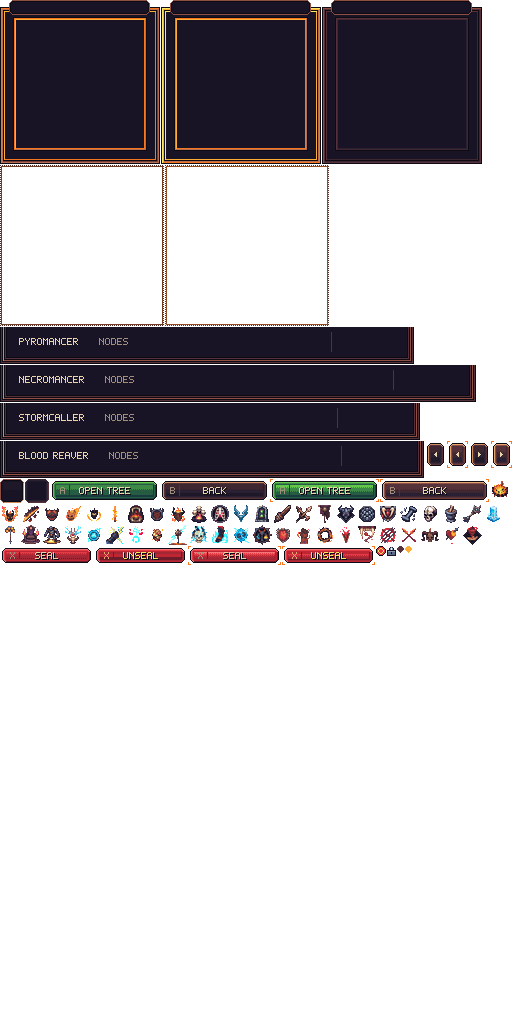
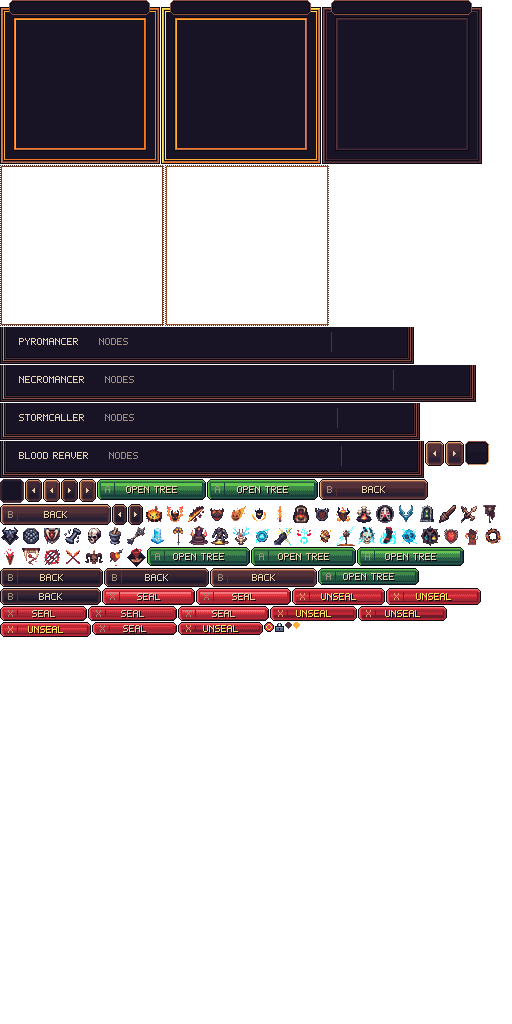
t1382: Altar menu: SEAL always drawn (empty pact sealable); button hover/press spring (crisp redraw at +/- size), arrows + side cards, key press feedback

Changed region(s): [[0.0, 0.4062, 1.0, 0.625]]

diff --git a/Assets/Hellord/Scripts/Runtime/HellordAltarMenu.cs b/Assets/Hellord/Scripts/Runtime/HellordAltarMenu.cs
@@ -20,7 +20,7 @@ namespace Hellord
         /// <summary>true when the menu-theme Altar overview is drawn (and handles keys); anything missing/failed falls back to the stone carousel.</summary>
         bool AmActive() { return !_amBroken && HellordUITheme.Active == HellordUITheme.Theme.MenuTheme && NP97 == 4 && PmReady() && AmReady(); }
         /// <summary>menu theme + sealed: the Pact picks are frozen until UNSEAL.</summary>
-        bool AmLocked() { return _pactSealed51 && HellordUITheme.Active == HellordUITheme.Theme.MenuTheme && _pactPath51 >= 0 && _pactSel51 != 0; }
+        bool AmLocked() { return _pactSealed51 && HellordUITheme.Active == HellordUITheme.Theme.MenuTheme && _pactPath51 >= 0; }
 
         void AmSpr(string n, int x, int y, float a = 1f) { int[] r; if (_amAtlas == null || !AltarMenuData.Atlas.TryGetValue(n, out r)) return; MtBlit(_amAtlas, r[0], r[1], r[2], r[3], x, y, a); }
         /// <summary>integer-scaled (nearest) blit of a whole texture at (x,y) in the 640x360 grid.</summary>
@@ -53,10 +53,48 @@ namespace Hellord
 
         // ---------------------------------------------------------------- seal
         void AmSealToggle()
-        {
+        {   // the seal belongs to YOUR Pact path; an empty Pact can be sealed too (picks stay frozen until UNSEAL)
+            int v = _altarView51;
             if (_pactSealed51) { _pactSealed51 = false; PactSave51(); Msg51("PACT UNSEALED"); HellordAudio.Play("ui_back"); return; }
-            if (_pactPath51 < 0 || _pactSel51 == 0) { Msg51("PICK NODES FIRST"); return; }
-            _pactSealed51 = true; PactSave51(); Msg51("PACT SEALED"); HellordAudio.Play("ui_confirm");
+            if (_pactPath51 != v)
+            {
+                if (_pactPath51 >= 0 && _pactSel51 != 0) { Msg51("SEAL APPLIES TO YOUR PATH: " + PactData.PathShort[_pactPath51]); return; }
+                if (PathLocked97(v)) { Msg51("PATH LOCKED: UNLOCK A NODE FIRST"); return; }
+                _pactPath51 = v; _pactSel51 = 0;
+            }
+            _pactSealed51 = true; PactSave51(); Msg51(_pactSel51 == 0 ? "PACT SEALED (EMPTY)" : "PACT SEALED"); HellordAudio.Play("ui_confirm");
+        }
+        void AmDo(string id) { if (id == "amopen") { _altarScr53 = 1; _focus97 = -1; } else if (id == "amback") mode = Mode.MainMenu; }
+
+        // ---------------------------------------------------------------- button juice: per-control spring (level -2 pressed .. 0 rest .. +2 hover, overshoot to +3); the control is REDRAWN at the matching baked size (frames stay crisp)
+        class AmAnim { public float x, v; public int frame = -1; public float pressUntil; }
+        readonly Dictionary<string, AmAnim> _amAnim = new Dictionary<string, AmAnim>();
+        string _amPend; float _amPendAt;
+        AmAnim AmA(string id) { AmAnim a; if (!_amAnim.TryGetValue(id, out a)) { a = new AmAnim(); _amAnim[id] = a; } return a; }
+        /// <summary>keyboard / pad press feedback: shows the pressed state for ~0.1 s.</summary>
+        void AmKick(string id) { AmA(id).pressUntil = Time.unscaledTime + 0.1f; }
+        int AmLevel(string id, bool over, bool pressed)
+        {
+            var a = AmA(id); if (a.pressUntil > Time.unscaledTime) pressed = true;
+            float target = pressed ? -2f : over ? 2f : 0f;
+            if (a.frame != Time.frameCount)
+            {
+                a.frame = Time.frameCount; float dt = Mathf.Min(Time.unscaledDeltaTime, 1f / 30f) * 0.5f;
+                for (int k = 0; k < 2; k++) { float acc = 900f * (target - a.x) - 24f * a.v; a.v += acc * dt; a.x += a.v * dt; }   // ~0.12 s to settle, ~25% overshoot
+                if (Mathf.Abs(target - a.x) < 0.02f && Mathf.Abs(a.v) < 0.05f) { a.x = target; a.v = 0; }
+            }
+            return Mathf.Clamp(Mathf.RoundToInt(a.x), -2, 3);
+        }
+        static string AmD(int d) { return (d < 0 ? "m" : "") + Mathf.Abs(d); }
+        /// <summary>one juicy button: returns true when clicked. (x,y,w,h) = the rest rect (also the hit rect); arrow = square growth.</summary>
+        bool AmBtn(string id, string spr, int x, int y, int w, int h, bool free, bool arrow = false, float alpha = 1f)
+        {
+            bool over = free && MtOver(id, x, y, w, h), pr = MtPressed(id, over); int lv = AmLevel(id, over, pr);
+            int dw, dh; if (arrow) dw = dh = 2 * (lv / 2); else { dw = 2 * lv; dh = 2 * (lv / 2); }
+            int ox = x - dw / 2, oy = y - dh / 2 + (lv < 0 ? 1 : 0);
+            AmSpr(spr + (lv >= 1 ? "_h_" : "_n_") + AmD(dw) + "_" + AmD(dh), ox, oy, alpha);
+            if (over) MtBrackets(ox, oy, w + dw, h + dh);
+            return MtClick(id, x, y, w, h, free);
         }
 
         // ---------------------------------------------------------------- screen
@@ -76,7 +114,7 @@ namespace Hellord
             float t = MtClock(); bool free = _confirm97 < 0; int NP = NP97, v = Mathf.Clamp(_altarView51, 0, NP - 1), l = (v + NP - 1) % NP, r = (v + 1) % NP;
             var nodes = PactData.Nodes[v]; bool yours = _pactPath51 == v, locked = PathLocked97(v);
             var tk = new List<int>(); if (yours) for (int i = 0; i < nodes.Length; i++) if (Taken97(v, i)) tk.Add(i);
-            int n = tk.Count; bool sealed_ = _pactSealed51 && yours && n > 0;
+            int n = tk.Count; bool sealed_ = _pactSealed51 && yours;
             if (_mtRep)
             {
                 GUI.color = MT_INK; GUI.DrawTexture(new Rect(0, 0, Screen.width, Screen.height), Texture2D.whiteTexture); GUI.color = Color.white;
@@ -104,18 +142,18 @@ namespace Hellord
             if (locked) AmSpr("lock", 253 + 134 - 18, 99 + 134 - 18);
             if (sealed_) AmSpr("chip", AltarMenuData.CardX + 7, AltarMenuData.CardY + 7);
             AmTxIn(PactData.PathShort[v], 249, 82, 141, 15, locked ? "DIM" : "BONE");
-            // ---- SEAL / UNSEAL straddling the card's bottom frame
-            if (yours && n > 0)
+            // ---- SEAL / UNSEAL straddling the card's bottom frame (always drawn; dimmed when your Pact is on another path)
             {
-                int bx = AltarMenuData.SealX, by = AltarMenuData.SealY; bool ov = free && MtOver("amseal", bx, by, 89, 15);
-                AmSpr((sealed_ ? "seal_se_" : "seal_un_") + (ov ? "h" : "n"), bx - 2, by - 2);
-                if (MtClick("amseal", bx, by, 89, 15, free)) AmSealToggle();
+                bool other = !yours && _pactPath51 >= 0 && _pactSel51 != 0;
+                if (AmBtn("amseal", sealed_ ? "seal_se" : "seal_un", AltarMenuData.SealX, AltarMenuData.SealY, 89, 15, free, false, other ? 0.5f : 1f)) AmSealToggle();
             }
             // ---- side cards (frames + plate boxes are in the scene): 1x avatar dimmed, plate name, status lines
             for (int sd = 0; sd < 2; sd++)
             {
                 int cx = AltarMenuData.SideCx[sd], p = sd == 0 ? l : r, sy0 = AltarMenuData.SideY + 10, sx0 = cx - 35; bool lk = PathLocked97(p), mine = _pactPath51 == p;
-                AmBlitN(T97(Av97(p, lk, false)), sx0 + 3, sy0 + 3, 1, 0.65f);
+                string sid = "amside" + sd; int cx0 = cx - AltarMenuData.SideW / 2; bool sov = free && MtOver(sid, cx0, AltarMenuData.SideY, AltarMenuData.SideW, AltarMenuData.SideH), spr_ = MtPressed(sid, sov); int slv = AmLevel(sid, sov, spr_);
+                AmBlitN(T97(Av97(p, lk, false)), sx0 + 3, sy0 + 3, 1, Mathf.Min(1f, 0.65f + 0.12f * Mathf.Max(0, slv)));
+                if (sov || slv > 0) MtBrackets(cx0 - slv, AltarMenuData.SideY - slv, AltarMenuData.SideW + 2 * slv, AltarMenuData.SideH + 2 * slv);
                 if (lk) AmSpr("lock", sx0 + 52, sy0 + 52);
                 int px = cx - AltarMenuData.SideW / 2 + (AltarMenuData.SideW - 89) / 2;
                 AmTxIn(PactData.PathShort[p], px, AltarMenuData.SideY - 7, 89, 15, lk ? "DIM" : "BONE");
@@ -127,12 +165,7 @@ namespace Hellord
                 if (MtClick("amside" + sd, cx - AltarMenuData.SideW / 2, AltarMenuData.SideY, AltarMenuData.SideW, AltarMenuData.SideH, free)) Scroll97(sd == 0 ? -1 : 1);
             }
             // ---- arrows
-            for (int sd = 0; sd < 2; sd++)
-            {
-                int ax = sd == 0 ? AltarMenuData.ArrL : AltarMenuData.ArrR, ay = AltarMenuData.ArrY; bool ov = free && MtOver("amarr" + sd, ax, ay, 17, 23);
-                AmSpr("arr_" + (sd == 0 ? "l" : "r") + (ov ? "_h" : "_n"), ax - 2, ay - 2);
-                if (MtClick("amarr" + sd, ax, ay, 17, 23, free)) Scroll97(sd == 0 ? -1 : 1);
-            }
+            for (int sd = 0; sd < 2; sd++) if (AmBtn("amarr" + sd, sd == 0 ? "arr_l" : "arr_r", sd == 0 ? AltarMenuData.ArrL : AltarMenuData.ArrR, AltarMenuData.ArrY, 17, 23, free, true)) Scroll97(sd == 0 ? -1 : 1);
             // ---- path faces: 24x24 1:1 head crops of the 64px game avatars in 26px frames (viewed = amber, others dimmed, locked = lock avatar)
             for (int p = 0; p < NP; p++)
             {
@@ -144,10 +177,9 @@ namespace Hellord
             }
             // ---- OPEN TREE [A] (green) / BACK [B]
             {
-                int by = AltarMenuData.BtnY; bool ov = free && MtOver("amopen", AltarMenuData.OpenX, by, 105, 19), ob = free && MtOver("amback", AltarMenuData.BackX, by, 105, 19);
-                AmSpr(ov ? "open_h" : "open_n", AltarMenuData.OpenX - 2, by - 2); AmSpr(ob ? "back_h" : "back_n", AltarMenuData.BackX - 2, by - 2);
-                if (MtClick("amopen", AltarMenuData.OpenX, by, 105, 19, free)) { _altarScr53 = 1; _focus97 = -1; }
-                if (MtClick("amback", AltarMenuData.BackX, by, 105, 19, free)) mode = Mode.MainMenu;
+                int by = AltarMenuData.BtnY;
+                if (AmBtn("amopen", "open", AltarMenuData.OpenX, by, 105, 19, free)) AmDo("amopen");
+                if (AmBtn("amback", "back", AltarMenuData.BackX, by, 105, 19, free)) AmDo("amback");
             }
             // ---- lava life + light (drawn last so the glow also warms the lower UI)
             if (_mtRep)

diff --git a/Assets/Hellord/Scripts/Runtime/HellordAltarMenuData.cs b/Assets/Hellord/Scripts/Runtime/HellordAltarMenuData.cs
@@ -5,77 +5,97 @@ namespace Hellord
     public static class AltarMenuData
     {
         public static readonly Dictionary<string, int[]> Atlas = new Dictionary<string, int[]> {
-            { "arr_l_h", new[] { 447, 441, 21, 27 } },
-            { "arr_l_n", new[] { 425, 441, 21, 27 } },
-            { "arr_r_h", new[] { 491, 441, 21, 27 } },
-            { "arr_r_n", new[] { 469, 441, 21, 27 } },
-            { "back_h", new[] { 380, 479, 109, 23 } },
-            { "back_n", new[] { 160, 479, 109, 23 } },
+            { "arr_l_h_0_0", new[] { 43, 479, 17, 23 } },
+            { "arr_l_h_2_2", new[] { 425, 441, 19, 25 } },
+            { "arr_l_n_0_0", new[] { 25, 479, 17, 23 } },
+            { "arr_l_n_m2_m2", new[] { 112, 504, 15, 21 } },
+            { "arr_r_h_0_0", new[] { 79, 479, 17, 23 } },
+            { "arr_r_h_2_2", new[] { 445, 441, 19, 25 } },
+            { "arr_r_n_0_0", new[] { 61, 479, 17, 23 } },
+            { "arr_r_n_m2_m2", new[] { 128, 504, 15, 21 } },
+            { "back_h_2_0", new[] { 210, 568, 107, 19 } },
+            { "back_h_4_2", new[] { 319, 479, 109, 21 } },
+            { "back_h_6_2", new[] { 0, 504, 111, 21 } },
+            { "back_n_0_0", new[] { 104, 568, 105, 19 } },
+            { "back_n_m2_0", new[] { 0, 568, 103, 19 } },
+            { "back_n_m4_m2", new[] { 0, 588, 101, 17 } },
             { "card_neu", new[] { 322, 0, 160, 164 } },
             { "card_sel_se", new[] { 161, 0, 160, 164 } },
             { "card_sel_un", new[] { 0, 0, 160, 164 } },
-            { "chip", new[] { 376, 546, 10, 10 } },
-            { "crest_off", new[] { 397, 546, 7, 7 } },
-            { "crest_on", new[] { 405, 546, 7, 7 } },
+            { "chip", new[] { 264, 622, 10, 10 } },
+            { "crest_off", new[] { 285, 622, 7, 7 } },
+            { "crest_on", new[] { 293, 622, 7, 7 } },
             { "glow_se", new[] { 165, 165, 164, 161 } },
             { "glow_un", new[] { 0, 165, 164, 161 } },
-            { "ic_0_0", new[] { 490, 479, 20, 20 } },
-            { "ic_0_1", new[] { 0, 504, 20, 20 } },
-            { "ic_0_2", new[] { 21, 504, 20, 20 } },
-            { "ic_0_3", new[] { 42, 504, 20, 20 } },
-            { "ic_0_4", new[] { 63, 504, 20, 20 } },
-            { "ic_0_5", new[] { 84, 504, 20, 20 } },
-            { "ic_0_6", new[] { 105, 504, 20, 20 } },
-            { "ic_0_7", new[] { 126, 504, 20, 20 } },
-            { "ic_0_8", new[] { 147, 504, 20, 20 } },
-            { "ic_0_9", new[] { 168, 504, 20, 20 } },
-            { "ic_1_0", new[] { 189, 504, 20, 20 } },
-            { "ic_1_1", new[] { 210, 504, 20, 20 } },
-            { "ic_1_10", new[] { 399, 504, 20, 20 } },
-            { "ic_1_11", new[] { 420, 504, 20, 20 } },
-            { "ic_1_12", new[] { 441, 504, 20, 20 } },
-            { "ic_1_13", new[] { 462, 504, 20, 20 } },
-            { "ic_1_14", new[] { 483, 504, 20, 20 } },
-            { "ic_1_15", new[] { 0, 525, 20, 20 } },
-            { "ic_1_16", new[] { 21, 525, 20, 20 } },
-            { "ic_1_17", new[] { 42, 525, 20, 20 } },
-            { "ic_1_2", new[] { 231, 504, 20, 20 } },
-            { "ic_1_3", new[] { 252, 504, 20, 20 } },
-            { "ic_1_4", new[] { 273, 504, 20, 20 } },
-            { "ic_1_5", new[] { 294, 504, 20, 20 } },
-            { "ic_1_6", new[] { 315, 504, 20, 20 } },
-            { "ic_1_7", new[] { 336, 504, 20, 20 } },
-            { "ic_1_8", new[] { 357, 504, 20, 20 } },
-            { "ic_1_9", new[] { 378, 504, 20, 20 } },
-            { "ic_2_0", new[] { 63, 525, 20, 20 } },
-            { "ic_2_1", new[] { 84, 525, 20, 20 } },
-            { "ic_2_2", new[] { 105, 525, 20, 20 } },
-            { "ic_2_3", new[] { 126, 525, 20, 20 } },
-            { "ic_2_4", new[] { 147, 525, 20, 20 } },
-            { "ic_2_5", new[] { 168, 525, 20, 20 } },
-            { "ic_2_6", new[] { 189, 525, 20, 20 } },
-            { "ic_2_7", new[] { 210, 525, 20, 20 } },
-            { "ic_2_8", new[] { 231, 525, 20, 20 } },
-            { "ic_2_9", new[] { 252, 525, 20, 20 } },
-            { "ic_3_0", new[] { 273, 525, 20, 20 } },
-            { "ic_3_1", new[] { 294, 525, 20, 20 } },
-            { "ic_3_2", new[] { 315, 525, 20, 20 } },
-            { "ic_3_3", new[] { 336, 525, 20, 20 } },
-            { "ic_3_4", new[] { 357, 525, 20, 20 } },
-            { "ic_3_5", new[] { 378, 525, 20, 20 } },
-            { "ic_3_6", new[] { 399, 525, 20, 20 } },
-            { "ic_3_7", new[] { 420, 525, 20, 20 } },
-            { "ic_3_8", new[] { 441, 525, 20, 20 } },
-            { "ic_3_9", new[] { 462, 525, 20, 20 } },
-            { "lock", new[] { 387, 546, 9, 10 } },
-            { "open_h", new[] { 270, 479, 109, 23 } },
-            { "open_n", new[] { 50, 479, 109, 23 } },
-            { "seal_se_h", new[] { 282, 546, 93, 19 } },
-            { "seal_se_n", new[] { 94, 546, 93, 19 } },
-            { "seal_un_h", new[] { 188, 546, 93, 19 } },
-            { "seal_un_n", new[] { 0, 546, 93, 19 } },
-            { "sock_off", new[] { 25, 479, 24, 24 } },
-            { "sock_on", new[] { 0, 479, 24, 24 } },
+            { "ic_0_0", new[] { 144, 504, 20, 20 } },
+            { "ic_0_1", new[] { 165, 504, 20, 20 } },
+            { "ic_0_2", new[] { 186, 504, 20, 20 } },
+            { "ic_0_3", new[] { 207, 504, 20, 20 } },
+            { "ic_0_4", new[] { 228, 504, 20, 20 } },
+            { "ic_0_5", new[] { 249, 504, 20, 20 } },
+            { "ic_0_6", new[] { 270, 504, 20, 20 } },
+            { "ic_0_7", new[] { 291, 504, 20, 20 } },
+            { "ic_0_8", new[] { 312, 504, 20, 20 } },
+            { "ic_0_9", new[] { 333, 504, 20, 20 } },
+            { "ic_1_0", new[] { 354, 504, 20, 20 } },
+            { "ic_1_1", new[] { 375, 504, 20, 20 } },
+            { "ic_1_10", new[] { 63, 526, 20, 20 } },
+            { "ic_1_11", new[] { 84, 526, 20, 20 } },
+            { "ic_1_12", new[] { 105, 526, 20, 20 } },
+            { "ic_1_13", new[] { 126, 526, 20, 20 } },
+            { "ic_1_14", new[] { 147, 526, 20, 20 } },
+            { "ic_1_15", new[] { 168, 526, 20, 20 } },
+            { "ic_1_16", new[] { 189, 526, 20, 20 } },
+            { "ic_1_17", new[] { 210, 526, 20, 20 } },
+            { "ic_1_2", new[] { 396, 504, 20, 20 } },
+            { "ic_1_3", new[] { 417, 504, 20, 20 } },
+            { "ic_1_4", new[] { 438, 504, 20, 20 } },
+            { "ic_1_5", new[] { 459, 504, 20, 20 } },
+            { "ic_1_6", new[] { 480, 504, 20, 20 } },
+            { "ic_1_7", new[] { 0, 526, 20, 20 } },
+            { "ic_1_8", new[] { 21, 526, 20, 20 } },
+            { "ic_1_9", new[] { 42, 526, 20, 20 } },
+            { "ic_2_0", new[] { 231, 526, 20, 20 } },
+            { "ic_2_1", new[] { 252, 526, 20, 20 } },
+            { "ic_2_2", new[] { 273, 526, 20, 20 } },
+            { "ic_2_3", new[] { 294, 526, 20, 20 } },
+            { "ic_2_4", new[] { 315, 526, 20, 20 } },
+            { "ic_2_5", new[] { 336, 526, 20, 20 } },
+            { "ic_2_6", new[] { 357, 526, 20, 20 } },
+            { "ic_2_7", new[] { 378, 526, 20, 20 } },
+            { "ic_2_8", new[] { 399, 526, 20, 20 } },
+            { "ic_2_9", new[] { 420, 526, 20, 20 } },
+            { "ic_3_0", new[] { 441, 526, 20, 20 } },
+            { "ic_3_1", new[] { 462, 526, 20, 20 } },
+            { "ic_3_2", new[] { 483, 526, 20, 20 } },
+            { "ic_3_3", new[] { 0, 547, 20, 20 } },
+            { "ic_3_4", new[] { 21, 547, 20, 20 } },
+            { "ic_3_5", new[] { 42, 547, 20, 20 } },
+            { "ic_3_6", new[] { 63, 547, 20, 20 } },
+            { "ic_3_7", new[] { 84, 547, 20, 20 } },
+            { "ic_3_8", new[] { 105, 547, 20, 20 } },
+            { "ic_3_9", new[] { 126, 547, 20, 20 } },
+            { "lock", new[] { 275, 622, 9, 10 } },
+            { "open_h_2_0", new[] { 357, 547, 107, 19 } },
+            { "open_h_4_2", new[] { 97, 479, 109, 21 } },
+            { "open_h_6_2", new[] { 207, 479, 111, 21 } },
+            { "open_n_0_0", new[] { 251, 547, 105, 19 } },
+            { "open_n_m2_0", new[] { 147, 547, 103, 19 } },
+            { "open_n_m4_m2", new[] { 318, 568, 101, 17 } },
+            { "seal_se_h_2_0", new[] { 0, 622, 91, 15 } },
+            { "seal_se_h_4_2", new[] { 292, 588, 93, 17 } },
+            { "seal_se_h_6_2", new[] { 386, 588, 95, 17 } },
+            { "seal_se_n_0_0", new[] { 358, 606, 89, 15 } },
+            { "seal_se_n_m2_0", new[] { 270, 606, 87, 15 } },
+            { "seal_se_n_m4_m2", new[] { 178, 622, 85, 13 } },
+            { "seal_un_h_2_0", new[] { 178, 606, 91, 15 } },
+            { "seal_un_h_4_2", new[] { 102, 588, 93, 17 } },
+            { "seal_un_h_6_2", new[] { 196, 588, 95, 17 } },
+            { "seal_un_n_0_0", new[] { 88, 606, 89, 15 } },
+            { "seal_un_n_m2_0", new[] { 0, 606, 87, 15 } },
+            { "seal_un_n_m4_m2", new[] { 92, 622, 85, 13 } },
+            { "sock_off", new[] { 0, 479, 24, 24 } },
+            { "sock_on", new[] { 465, 441, 24, 24 } },
             { "tab_0", new[] { 0, 327, 414, 37 } },
             { "tab_1", new[] { 0, 365, 476, 37 } },
             { "tab_2", new[] { 0, 403, 420, 37 } },

diff --git a/tools/t1380/altar_export.py b/tools/t1380/altar_export.py
@@ -140,10 +140,8 @@ for p in range(4):
     SPR[f'tab_{p}'] = keyed(tab, tw, th)
     sockx = tx0 + WALL + 12 + SM.width(name) + g1 + SM.width('NODES') + 7; cntx = sockx + nodes_w + 7; divx = cntx + SM.width('3/8') + 9; crestx = divx + 1 + 9
     TABINFO.append((tx0, CAV_Y, tw, th, sockx, cntx, crestx)); print(name, 'tab', tx0, tw, 'sock', sockx, 'cnt', cntx, 'crest', crestx, 'right pad', tx0 + tw - WALL - (crestx + crest_w))
-# ---- buttons (105x19 OPEN TREE green / BACK, 89x15 SEAL red; hover = lighter bands + orange corner brackets)
-def brackets(cv, x, y, w, h):
-    for (cx, cy, sx, sy) in ((x - 2, y - 2, 1, 1), (x + w + 1, y - 2, -1, 1), (x - 2, y + h + 1, 1, -1), (x + w + 1, y + h + 1, -1, -1)):
-        for i in range(3): cv.p(cx + sx * i, cy, 'ORANGE'); cv.p(cx, cy + sy * i, 'ORANGE')
+# ---- buttons (OPEN TREE green / BACK 105x19, SEAL red 89x15, arrows 17x23). Hover/press "zoom" = the button REDRAWN at a larger/smaller size (frames + labels stay crisp, label re-centred by the same real-bbox rule):
+# _n_<dw>_<dh> = normal palette (press / rest), _h_<dw>_<dh> = hover palette (brighter). Sizes are w+dw, h+dh (dw, dh even => label parity is unchanged). Hover corner brackets are drawn at runtime (MtBrackets) around the grown rect.
 def band_fill(bands, h):
     nb = len(bands)
     def fill(j, i, d):
@@ -151,27 +149,35 @@ def band_fill(bands, h):
         if b > 0 and k - int(k) < 0.34 and (i + j) % 2 == 0: b -= 1
         return bands[b]
     return fill
-def keybtn(cv, x, y, w, h, label, key, lit, dark_, bands, tcol, kcol, dcol, hover, shadow='DEEP'):
+def keybtn(cv, x, y, w, h, label, key, lit, dark_, bands, tcol, kcol, dcol):
     S.raised(cv, x, y, rect_mask(w, h, 3), lit, dark_, band_fill(bands, h))
-    put(cv, (x, y, w, h), label, tcol, role='button', cont=(x, y, w, h), shadow=shadow)
+    put(cv, (x, y, w, h), label, tcol, role='button', cont=(x, y, w, h), shadow='DEEP')
     put(cv, (x + 4, y, 13, h), key, kcol, role='key', cont=(x, y, w, h)); cv.vl(x + 17, y + 4, h - 8, dcol)
-    if hover: brackets(cv, x, y, w, h)
-for hv, nm in ((False, 'n'), (True, 'h')):
-    gb = ['G1', 'G2', 'G2', 'G3', 'G3', 'G4'] if hv else ['G2', 'G2', 'G3', 'G3', 'G3', 'G4']
-    SPR['open_' + nm] = keyed(lambda cv, x, y, gb=gb, hv=hv: keybtn(cv, x, y, 105, 19, 'OPEN TREE', 'A', ['DEEP', 'G1', 'G2', 'G3'], ['DEEP', 'G4', 'G3', 'G4'], gb, 'BONE', 'DIM', 'G4', hv), 105, 19, 2)
-    def back(cv, x, y, hv=hv):
-        S.button(cv, x, y, 105, 19, '', 'hover' if hv else 'normal', 0.15, False); put(cv, (x, y, 105, 19), 'BACK', 'BONE', role='button', cont=(x, y, 105, 19), shadow='DEEP')
-        put(cv, (x + 4, y, 13, 19), 'B', 'DIM', role='key', cont=(x, y, 105, 19)); cv.vl(x + 17, y + 4, 11, 'P2')
-    SPR['back_' + nm] = keyed(back, 105, 19, 2)
-    SPR['seal_un_' + nm] = keyed(lambda cv, x, y, hv=hv: keybtn(cv, x, y, 89, 15, 'SEAL', 'X', ['DEEP', 'PINK', 'RED', 'DRED'], ['DEEP', 'R0', 'DRED', 'BLOOD'], ['RED', 'DRED', 'DRED', 'BLOOD', 'BLOOD', 'BLOOD', 'R0'] if not hv else ['PINK', 'RED', 'RED', 'DRED', 'DRED', 'BLOOD', 'BLOOD'], 'BONE', 'DIM', 'R0', hv), 89, 15, 2)
-    SPR['seal_se_' + nm] = keyed(lambda cv, x, y, hv=hv: keybtn(cv, x, y, 89, 15, 'UNSEAL', 'X', ['DEEP', 'PINK', 'RED', 'DRED'], ['DEEP', 'DRED', 'BLOOD', 'R0'], ['BLOOD', 'DRED', 'DRED', 'R0', 'R0'] if not hv else ['DRED', 'RED', 'DRED', 'BLOOD', 'BLOOD'], 'YELLOW', 'CLAY', 'R0', hv), 89, 15, 2)
-for d_, nm in ((1, 'l'), (-1, 'r')):
-    for hv, st in ((False, 'n'), (True, 'h')):
-        def arrow(cv, x, y, d_=d_, hv=hv):
-            S.button(cv, x, y, 17, 23, '', 'hover' if hv else 'normal', 0.15, False)
-            rows_ = ['..#', '.##', '###', '.##', '..#'] if d_ > 0 else ['#..', '##.', '###', '##.', '#..']
-            cv.blit([r.replace('#', 'B') for r in rows_], dict(B='BONE'), x + 7, y + 9)
-        SPR[f'arr_{nm}_{st}'] = keyed(arrow, 17, 23, 2)
+DN = [(-4, -2), (-2, 0), (0, 0)]; DH = [(2, 0), (4, 2), (6, 2)]; ADN = [(-2, -2), (0, 0)]; ADH = [(0, 0), (2, 2)]
+def dn(d): return ('m' if d < 0 else '') + str(abs(d))
+GN = (['DEEP', 'G1', 'G2', 'G3'], ['DEEP', 'G4', 'G3', 'G4'])
+BN = (['DEEP', 'T2', 'P2', 'PLUM'], ['DEEP', 'P2', 'PLUM', 'N2'], ['PLUM', 'PLUM', 'N2', 'N2', 'N1', 'N1'])
+BH = (['DEEP', 'CLAY', 'B2', 'P2'], ['DEEP', 'BROWN', 'P2', 'PLUM'], ['P2', 'P2', 'PLUM', 'PLUM', 'N2', 'N2'])
+RL = ['DEEP', 'PINK', 'RED', 'DRED']
+SPECS = {   # name: (w, h, label, key, {n|h: (lit, dark, bands)}, text colour, key colour, divider colour)
+ 'open': (105, 19, 'OPEN TREE', 'A', {'n': (GN[0], GN[1], ['G2', 'G2', 'G3', 'G3', 'G3', 'G4']), 'h': (GN[0], GN[1], ['G1', 'G2', 'G2', 'G3', 'G3', 'G4'])}, 'BONE', 'DIM', 'G4'),
+ 'back': (105, 19, 'BACK', 'B', {'n': BN, 'h': BH}, 'BONE', 'DIM', 'P2'),
+ 'seal_un': (89, 15, 'SEAL', 'X', {'n': (RL, ['DEEP', 'R0', 'DRED', 'BLOOD'], ['RED', 'DRED', 'DRED', 'BLOOD', 'BLOOD', 'BLOOD', 'R0']), 'h': (RL, ['DEEP', 'R0', 'DRED', 'BLOOD'], ['PINK', 'RED', 'RED', 'DRED', 'DRED', 'BLOOD', 'BLOOD'])}, 'BONE', 'DIM', 'R0'),
+ 'seal_se': (89, 15, 'UNSEAL', 'X', {'n': (RL, ['DEEP', 'DRED', 'BLOOD', 'R0'], ['BLOOD', 'DRED', 'DRED', 'R0', 'R0']), 'h': (RL, ['DEEP', 'DRED', 'BLOOD', 'R0'], ['DRED', 'RED', 'DRED', 'BLOOD', 'BLOOD'])}, 'YELLOW', 'CLAY', 'R0'),
+}
+for nm, (w0, h0, lab, key, pals, tc, kc, dc) in SPECS.items():
+    for hv, deltas in (('n', DN), ('h', DH)):
+        for dw, dh in deltas:
+            w, h = w0 + dw, h0 + dh; lit, dk, bands = pals[hv]
+            SPR[f'{nm}_{hv}_{dn(dw)}_{dn(dh)}'] = keyed(lambda cv, x, y, w=w, h=h, lit=lit, dk=dk, bands=bands: keybtn(cv, x, y, w, h, lab, key, lit, dk, bands, tc, kc, dc), w, h)
+for side, d_ in (('l', 1), ('r', -1)):
+    for hv, deltas, pal in (('n', ADN, BN), ('h', ADH, BH)):
+        for dw, dh in deltas:
+            def arrow(cv, x, y, w=17 + dw, h=23 + dh, d_=d_, pal=pal):
+                S.raised(cv, x, y, rect_mask(w, h, 3), pal[0], pal[1], band_fill(pal[2], h))
+                rows_ = ['..#', '.##', '###', '.##', '..#'] if d_ > 0 else ['#..', '##.', '###', '##.', '#..']
+                cv.blit([r.replace('#', 'B') for r in rows_], dict(B='BONE'), x + (w - 3) // 2, y + (h - 5) // 2)
+            SPR[f'arr_{side}_{hv}_{dn(dw)}_{dn(dh)}'] = keyed(arrow, 17 + dw, 23 + dh)
 # ------------------------------------------------------------------ atlas pack (shelf)
 names = list(SPR.keys()); AW = 512; x = y = rowh = 0; RECT = {}
 for n in sorted(names, key=lambda n: -SPR[n].shape[0]):

diff --git a/Assets/Hellord/Scripts/Runtime/HellordPact.cs b/Assets/Hellord/Scripts/Runtime/HellordPact.cs
@@ -71,7 +71,7 @@ namespace Hellord
             PactMigrate539();
             if (_pactPath51 < 0 || _pactPath51 > 3) { _pactPath51 = -1; _pactSel51 = 0; }
             _pactSel51 &= _pactPath51 >= 0 ? _unlock51[_pactPath51] : 0; // never select a locked node (save repair)
-            _pactSealed51 = PlayerPrefs.GetInt(PK + "sealed", 0) == 1 && _pactPath51 >= 0 && _pactSel51 != 0; // t1380
+            _pactSealed51 = PlayerPrefs.GetInt(PK + "sealed", 0) == 1 && _pactPath51 >= 0; // t1380 (an empty Pact can be sealed)
             _altarView51 = Mathf.Max(0, _pactPath51);
         }
         // t539u: one-time save migration. Old layout: 0 Pyro, 1 BONE WARDEN (10 nodes), 2 Storm, 3 Blood, 4 Necromancer (18 nodes). New: 1 = Necromancer.
@@ -95,7 +95,7 @@ namespace Hellord
             PlayerPrefs.SetInt(PK + "souls", _souls51); PlayerPrefs.SetInt(PK + "sigils", _sigils51);
             PlayerPrefs.SetInt(PK + "path", _pactPath51); PlayerPrefs.SetInt(PK + "sel", _pactSel51);
             for (int p = 0; p < 4; p++) PlayerPrefs.SetInt(PK + "unlock" + p, _unlock51[p]);
-            if (_pactPath51 < 0 || _pactSel51 == 0 || HellordUITheme.Active != HellordUITheme.Theme.MenuTheme) _pactSealed51 = false; // t1380: the seal only exists with picks, and only in the menu theme (stone can edit picks)
+            if (_pactPath51 < 0 || HellordUITheme.Active != HellordUITheme.Theme.MenuTheme) _pactSealed51 = false; // t1380: the seal only exists with picks, and only in the menu theme (stone can edit picks)
             PlayerPrefs.SetInt(PK + "sealed", _pactSealed51 ? 1 : 0);
             PlayerPrefs.Save();
         }

diff --git a/Assets/Hellord/Scripts/Runtime/HellordAltar97.cs b/Assets/Hellord/Scripts/Runtime/HellordAltar97.cs
@@ -392,7 +392,14 @@ namespace Hellord
             bool up = Nav69(0), dn = Nav69(1), lf = Nav69(2), rt = Nav69(3), ok = K69Down(4), back = K69Down(5);
             var mv = HInput.Move(); _navX69 = mv.x; _navY69 = mv.y;
             if (_confirm97 >= 0) { if (ok) ConfirmYes97(); else if (back) _confirm97 = -1; return; }
-            if (_altarScr53 == 0 && AmActive() && K69Down(6)) { AmSealToggle(); return; } // t1380: X = SEAL / UNSEAL
+            if (_altarScr53 == 0 && AmActive())
+            {   // t1380: key / pad presses show the same press feedback as the mouse; OPEN TREE / BACK fire after ~0.09 s so it is visible
+                if (_amPend != null) { if (Time.unscaledTime >= _amPendAt) { var pid = _amPend; _amPend = null; AmDo(pid); } return; }
+                if (K69Down(6)) { AmKick("amseal"); AmSealToggle(); return; }   // X = SEAL / UNSEAL
+                if (ok) { AmKick("amopen"); _amPend = "amopen"; _amPendAt = Time.unscaledTime + 0.09f; return; }
+                if (back) { AmKick("amback"); _amPend = "amback"; _amPendAt = Time.unscaledTime + 0.09f; return; }
+                if (lf) { AmKick("amarr0"); Scroll97(-1); return; } if (rt) { AmKick("amarr1"); Scroll97(1); return; }
+            }
             if (back) { if (_altarScr53 == 1) _altarScr53 = 0; else mode = Mode.MainMenu; return; }
             if (HInput.Down(HKey.Tab) && _altarScr53 == 0 && !AmActive()) { _altarScr53 = 2; return; }
             if (_altarScr53 == 0)
